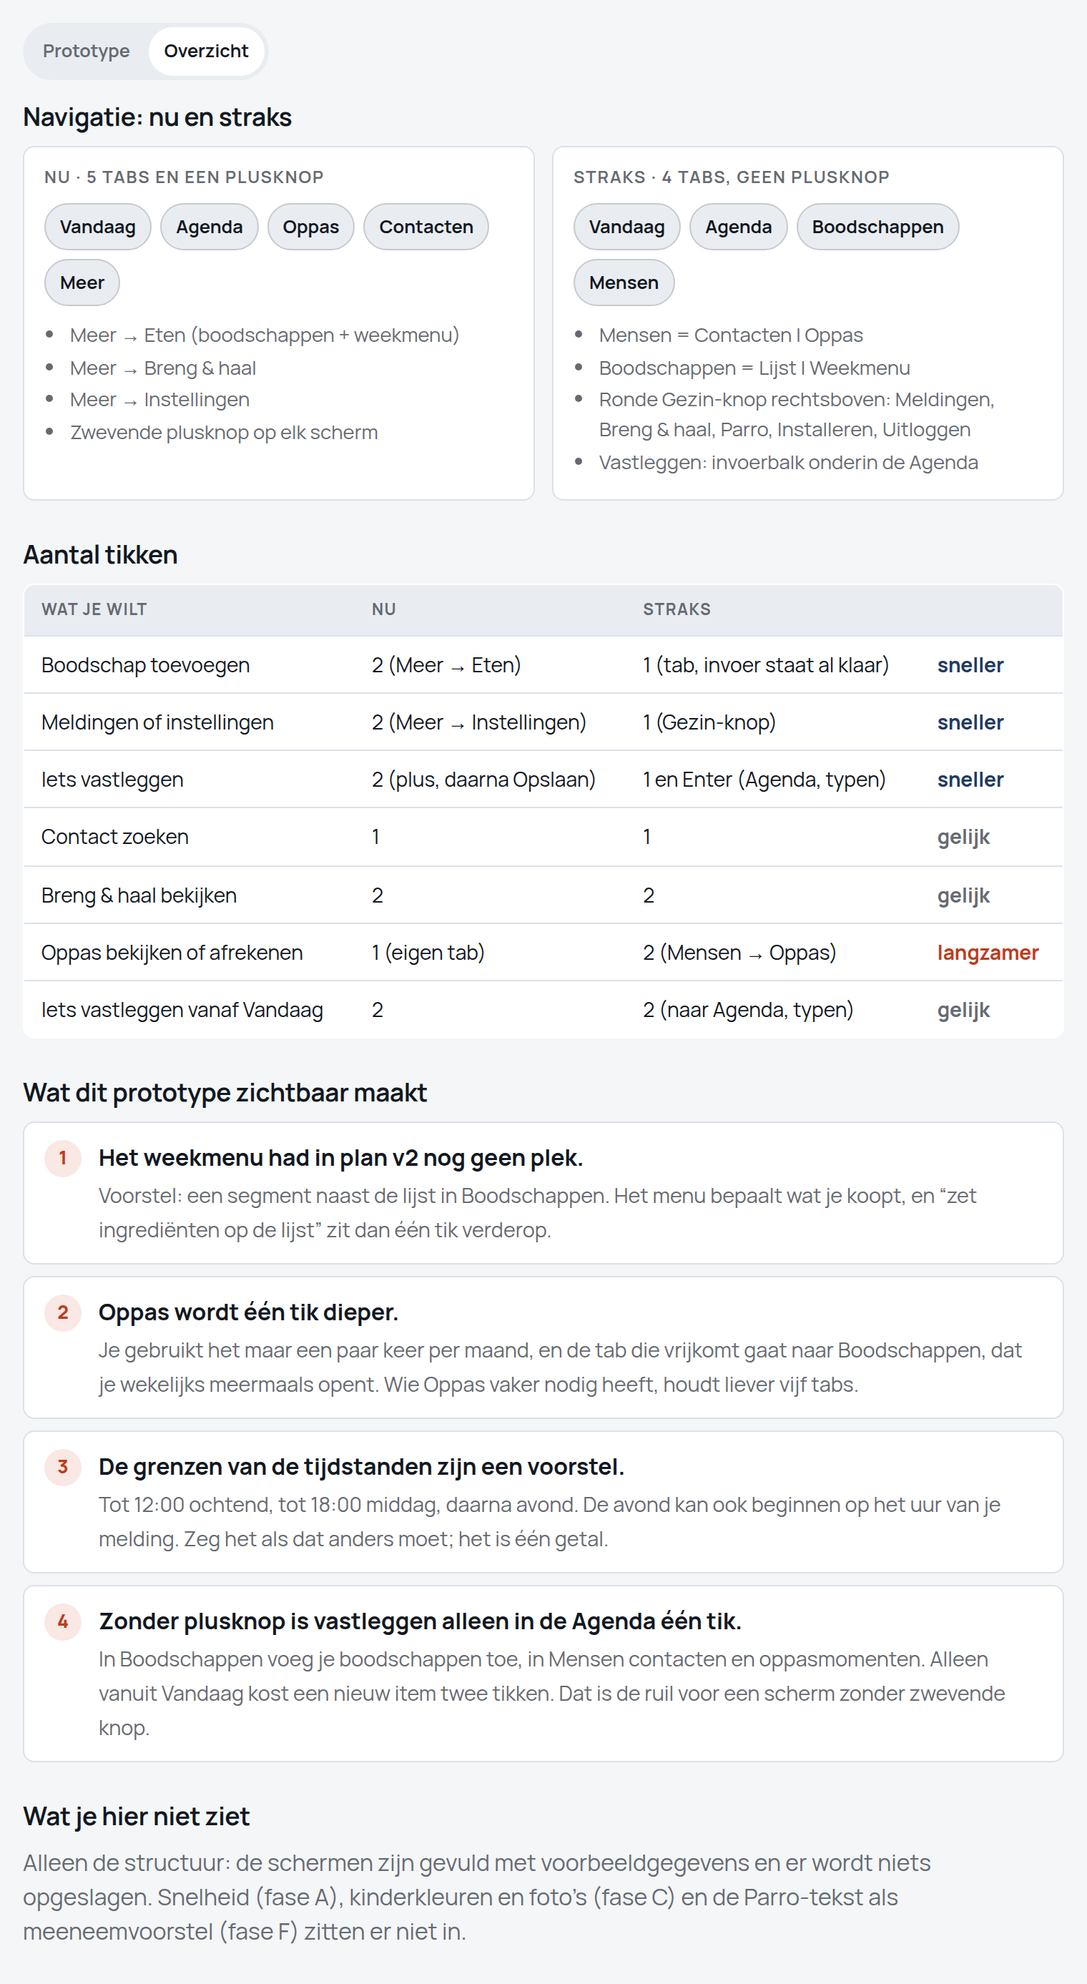
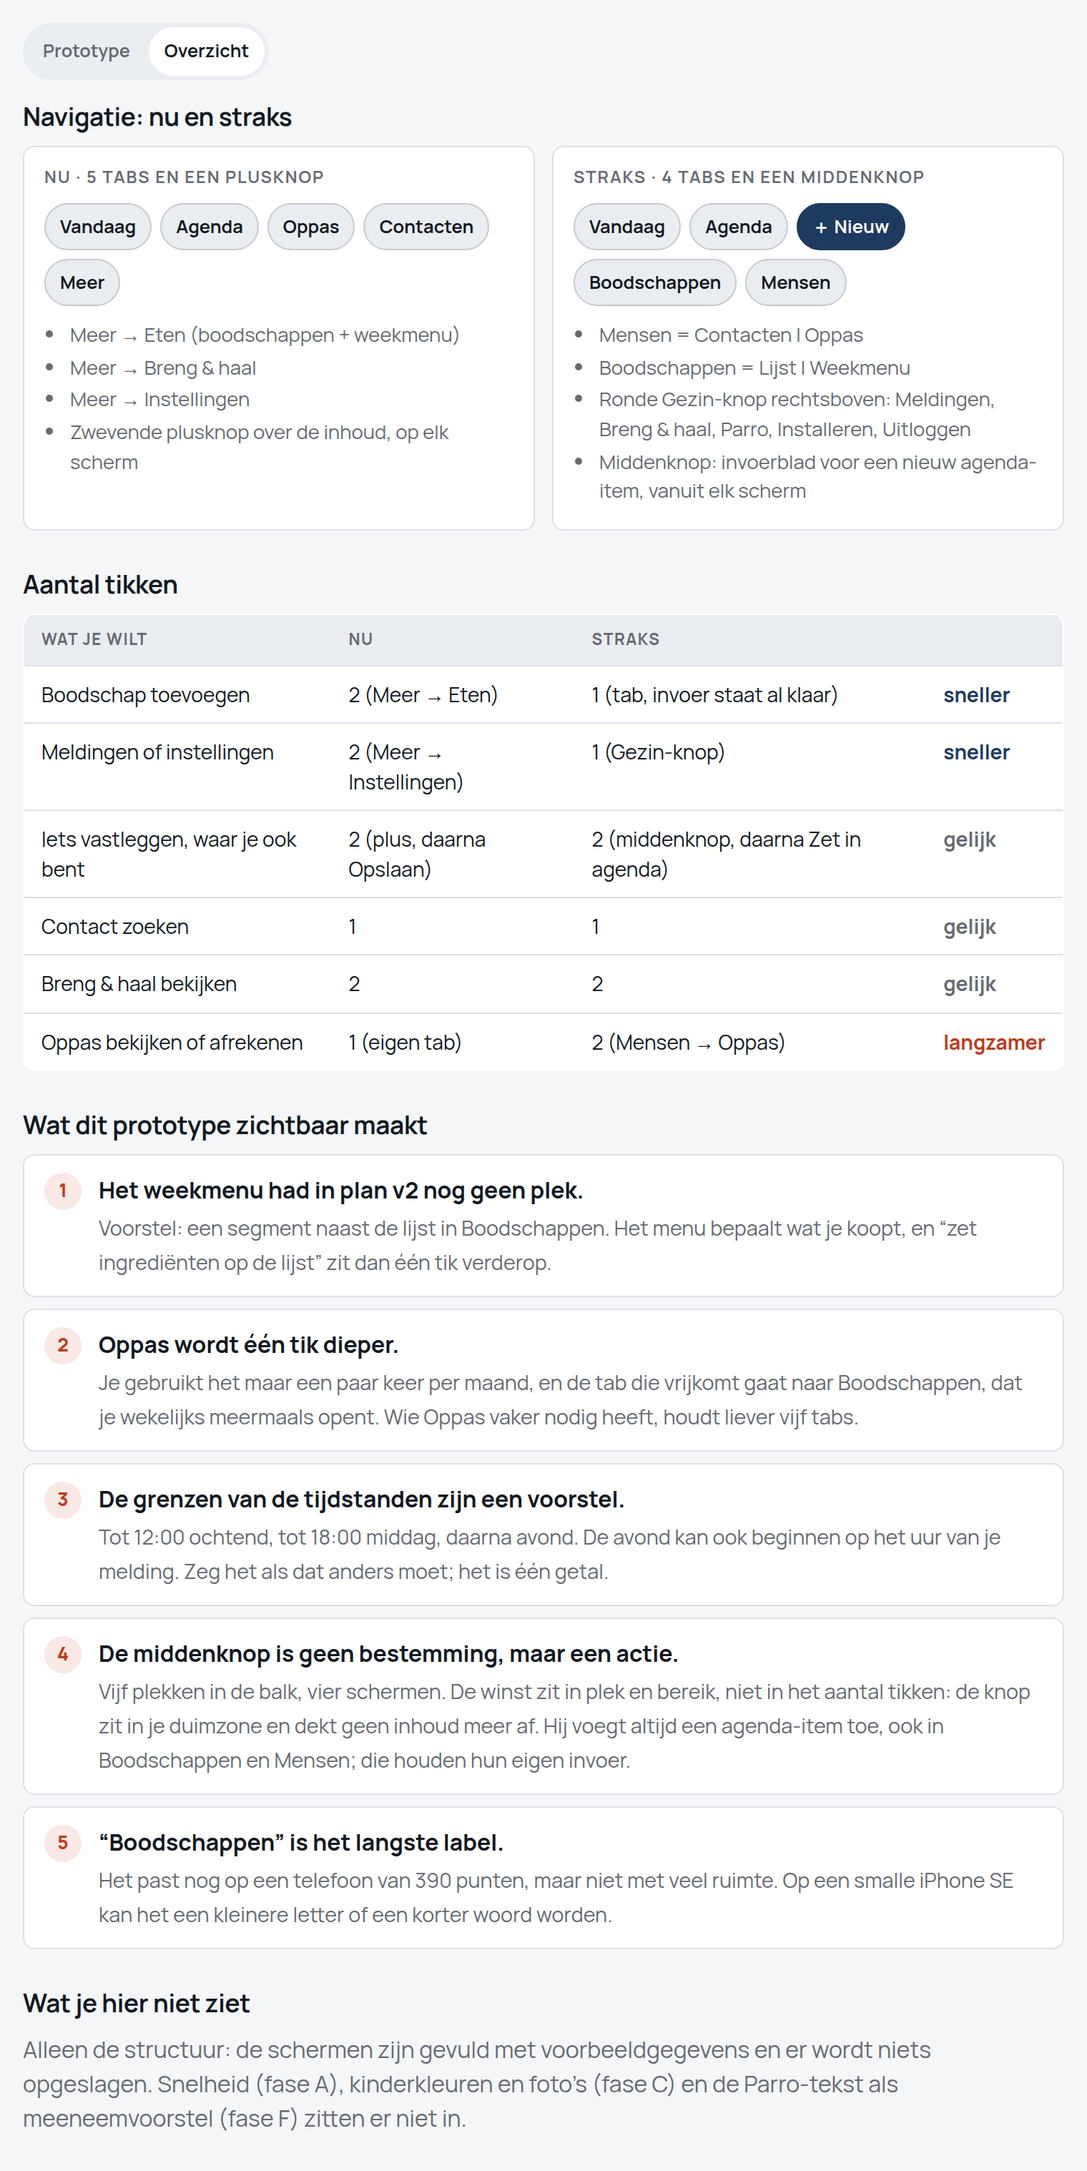
Werk fase B uit met vijf knoppen en een grotere Nieuw-knop in het midden
Claude-Session: https://claude.ai/code/session_01KYpuUaVwMjsUSBxD2yG82w

diff --git a/docs/mockups/fase-b.html b/docs/mockups/fase-b.html
@@ -1352,8 +1352,8 @@ body{margin:0;background:var(--bg);color:var(--text);font-family:var(--font-ui)}
 .mk__stage{display:flex;justify-content:center}
 .dev{position:relative;width:390px;max-width:100%;height:800px;max-height:calc(100dvh - 120px);min-height:560px;display:flex;flex-direction:column;background:var(--bg);border:1px solid var(--line-strong);border-radius:34px;overflow:hidden;box-shadow:var(--shadow-lg);transform:translateZ(0)}
 .dev__status{display:flex;justify-content:space-between;padding:12px 26px 4px;font-size:.78rem;font-weight:700;font-variant-numeric:tabular-nums;color:var(--text);flex-shrink:0}
-.dev__scroll{flex:1;overflow-y:auto;overscroll-behavior:contain;padding:6px 16px 20px}
-.dev .tabbar{position:static;flex-shrink:0;backdrop-filter:none;background:var(--surface);padding-bottom:10px}
+.dev__scroll{flex:1;overflow-y:auto;overscroll-behavior:contain;padding:6px 16px 36px}
+.dev .tabbar{position:relative;z-index:5;flex-shrink:0;backdrop-filter:none;background:var(--surface);padding-bottom:10px}
 .dev .tabbar__item{height:58px;font-size:.68rem}
 .mk--embedded .dev{height:100dvh;max-height:none;border-radius:0;border:0;box-shadow:none}
 @media (max-width:520px){
@@ -1422,6 +1422,22 @@ body{margin:0;background:var(--bg);color:var(--text);font-family:var(--font-ui)}
 .decision b{display:block;margin-bottom:2px}
 .decision span{color:var(--muted);font-size:.9rem}
 [hidden]{display:none!important}
+
+/* middenknop in de tabbalk */
+.dev .tabbar__item{font-size:.66rem;letter-spacing:0}
+.tabbar__add{display:flex;justify-content:center;align-items:flex-start;height:var(--nav-height);border:0;background:none;padding:0;cursor:pointer;color:var(--primary-ink)}
+.tabbar__disc{display:grid;place-items:center;width:56px;height:56px;margin-top:-22px;border-radius:50%;background:var(--primary);color:var(--primary-ink);border:5px solid var(--surface);box-shadow:0 5px 14px rgba(8,14,24,.28);transition:transform var(--dur) var(--ease)}
+.tabbar__disc svg{width:24px;height:24px}
+.tabbar__add:active .tabbar__disc{transform:scale(.93)}
+.tabbar__add:focus-visible .tabbar__disc{outline:3px solid var(--primary);outline-offset:3px}
+/* invoerblad */
+.sheetwrap{position:absolute;inset:0;z-index:50;display:flex;flex-direction:column;justify-content:flex-end}
+.sheet__scrim{position:absolute;inset:0;background:rgba(10,15,22,.45)}
+.sheet{position:relative;background:var(--surface);border-radius:22px 22px 0 0;padding:8px 16px 18px;box-shadow:var(--shadow-lg);animation:sheetup var(--dur) var(--ease)}
+.sheet__grip{width:38px;height:4px;border-radius:2px;background:var(--line-strong);margin:0 auto 10px}
+.sheet h2{font-size:1.1rem}
+@keyframes sheetup{from{transform:translateY(24px);opacity:0}to{transform:none;opacity:1}}
+@media (prefers-reduced-motion:reduce){.sheet{animation:none}.tabbar__disc{transition:none}}
 </style>
 <div class="mk">
   <div class="mk__bar">
@@ -1450,6 +1466,7 @@ body{margin:0;background:var(--bg);color:var(--text);font-family:var(--font-ui)}
       <div class="dev__scroll" id="scroll"></div>
       <div id="slot"></div>
       <nav class="tabbar" id="tabs" aria-label="Hoofdmenu"></nav>
+      <div id="sheet" class="sheetwrap" hidden></div>
       <div class="toast" id="toast" role="status" hidden></div>
     </div>
   </div>
@@ -1460,12 +1477,12 @@ body{margin:0;background:var(--bg);color:var(--text);font-family:var(--font-ui)}
       <div class="navbox">
         <h3>Nu · 5 tabs en een plusknop</h3>
         <div class="tabsrow"><span class="tabpill">Vandaag</span><span class="tabpill">Agenda</span><span class="tabpill">Oppas</span><span class="tabpill">Contacten</span><span class="tabpill">Meer</span></div>
-        <ul><li>Meer → Eten (boodschappen + weekmenu)</li><li>Meer → Breng &amp; haal</li><li>Meer → Instellingen</li><li>Zwevende plusknop op elk scherm</li></ul>
+        <ul><li>Meer → Eten (boodschappen + weekmenu)</li><li>Meer → Breng &amp; haal</li><li>Meer → Instellingen</li><li>Zwevende plusknop over de inhoud, op elk scherm</li></ul>
       </div>
       <div class="navbox">
-        <h3>Straks · 4 tabs, geen plusknop</h3>
-        <div class="tabsrow"><span class="tabpill">Vandaag</span><span class="tabpill">Agenda</span><span class="tabpill">Boodschappen</span><span class="tabpill">Mensen</span></div>
-        <ul><li>Mensen = Contacten | Oppas</li><li>Boodschappen = Lijst | Weekmenu</li><li>Ronde Gezin-knop rechtsboven: Meldingen, Breng &amp; haal, Parro, Installeren, Uitloggen</li><li>Vastleggen: invoerbalk onderin de Agenda</li></ul>
+        <h3>Straks · 4 tabs en een middenknop</h3>
+        <div class="tabsrow"><span class="tabpill">Vandaag</span><span class="tabpill">Agenda</span><span class="tabpill" style="background:var(--primary);color:var(--primary-ink);border-color:var(--primary)">＋ Nieuw</span><span class="tabpill">Boodschappen</span><span class="tabpill">Mensen</span></div>
+        <ul><li>Mensen = Contacten | Oppas</li><li>Boodschappen = Lijst | Weekmenu</li><li>Ronde Gezin-knop rechtsboven: Meldingen, Breng &amp; haal, Parro, Installeren, Uitloggen</li><li>Middenknop: invoerblad voor een nieuw agenda-item, vanuit elk scherm</li></ul>
       </div>
     </div>
 
@@ -1475,11 +1492,10 @@ body{margin:0;background:var(--bg);color:var(--text);font-family:var(--font-ui)}
       <tbody>
         <tr><td>Boodschap toevoegen</td><td>2 (Meer → Eten)</td><td>1 (tab, invoer staat al klaar)</td><td class="better">sneller</td></tr>
         <tr><td>Meldingen of instellingen</td><td>2 (Meer → Instellingen)</td><td>1 (Gezin-knop)</td><td class="better">sneller</td></tr>
-        <tr><td>Iets vastleggen</td><td>2 (plus, daarna Opslaan)</td><td>1 en Enter (Agenda, typen)</td><td class="better">sneller</td></tr>
+        <tr><td>Iets vastleggen, waar je ook bent</td><td>2 (plus, daarna Opslaan)</td><td>2 (middenknop, daarna Zet in agenda)</td><td class="same">gelijk</td></tr>
         <tr><td>Contact zoeken</td><td>1</td><td>1</td><td class="same">gelijk</td></tr>
         <tr><td>Breng &amp; haal bekijken</td><td>2</td><td>2</td><td class="same">gelijk</td></tr>
         <tr><td>Oppas bekijken of afrekenen</td><td>1 (eigen tab)</td><td>2 (Mensen → Oppas)</td><td class="worse">langzamer</td></tr>
-        <tr><td>Iets vastleggen vanaf Vandaag</td><td>2</td><td>2 (naar Agenda, typen)</td><td class="same">gelijk</td></tr>
       </tbody>
     </table>
 
@@ -1487,7 +1503,8 @@ body{margin:0;background:var(--bg);color:var(--text);font-family:var(--font-ui)}
     <div class="decision"><div class="n">1</div><div><b>Het weekmenu had in plan v2 nog geen plek.</b><span>Voorstel: een segment naast de lijst in Boodschappen. Het menu bepaalt wat je koopt, en “zet ingrediënten op de lijst” zit dan één tik verderop.</span></div></div>
     <div class="decision"><div class="n">2</div><div><b>Oppas wordt één tik dieper.</b><span>Je gebruikt het maar een paar keer per maand, en de tab die vrijkomt gaat naar Boodschappen, dat je wekelijks meermaals opent. Wie Oppas vaker nodig heeft, houdt liever vijf tabs.</span></div></div>
     <div class="decision"><div class="n">3</div><div><b>De grenzen van de tijdstanden zijn een voorstel.</b><span>Tot 12:00 ochtend, tot 18:00 middag, daarna avond. De avond kan ook beginnen op het uur van je melding. Zeg het als dat anders moet; het is één getal.</span></div></div>
-    <div class="decision"><div class="n">4</div><div><b>Zonder plusknop is vastleggen alleen in de Agenda één tik.</b><span>In Boodschappen voeg je boodschappen toe, in Mensen contacten en oppasmomenten. Alleen vanuit Vandaag kost een nieuw item twee tikken. Dat is de ruil voor een scherm zonder zwevende knop.</span></div></div>
+    <div class="decision"><div class="n">4</div><div><b>De middenknop is geen bestemming, maar een actie.</b><span>Vijf plekken in de balk, vier schermen. De winst zit in plek en bereik, niet in het aantal tikken: de knop zit in je duimzone en dekt geen inhoud meer af. Hij voegt altijd een agenda-item toe, ook in Boodschappen en Mensen; die houden hun eigen invoer.</span></div></div>
+    <div class="decision"><div class="n">5</div><div><b>“Boodschappen” is het langste label.</b><span>Het past nog op een telefoon van 390 punten, maar niet met veel ruimte. Op een smalle iPhone SE kan het een kleinere letter of een korter woord worden.</span></div></div>
 
     <h2>Wat je hier niet ziet</h2>
     <p>Alleen de structuur: de schermen zijn gevuld met voorbeeldgegevens en er wordt niets opgeslagen. Snelheid (fase A), kinderkleuren en foto’s (fase C) en de Parro-tekst als meeneemvoorstel (fase F) zitten er niet in.</p>
@@ -1558,7 +1575,7 @@ const S={
     {id:2,date:'2026-09-25',who:'Marloes',h:4,start:'18:30',end:'22:30',paid:true},
     {id:3,date:'2026-09-17',who:'Tim',h:3.5,start:'09:00',end:'12:30',paid:true},
   ],
-  cap:'',
+  sheet:{text:'',person:null},
 };
 const RATE=12;
 const evOn=dt=>S.events.filter(e=>e.date===dt).sort((a,b)=>(a.allDay?'00:00':a.time||'99').localeCompare(b.allDay?'00:00':b.time||'99'));
@@ -1687,22 +1704,20 @@ function gezin(){
 }
 
 /* ----------------------------------------------------------------- render */
-function bottomKey(){return S.gezin?'none':S.tab==='agenda'?'cap':S.tab==='boodschappen'&&S.boodschap==='lijst'?'shop':'none'}
+function bottomKey(){return S.gezin?'none':S.tab==='boodschappen'&&S.boodschap==='lijst'?'shop':'none'}
 function renderBottom(){
   const k=bottomKey();if(k===S._bk)return;S._bk=k;
   const el=document.getElementById('slot');
-  if(k==='cap'){
-    el.innerHTML=`<div class="capture"><p class="capture__hint" id="caphint">Typ gewoon: “matthijs vrijdag gymtas mee”</p><div id="capprev" class="capture__preview"></div><form class="capture__row" id="capform"><input class="input" id="cap" placeholder="Wat moet er gebeuren?" autocomplete="off" enterkeyhint="send"><button class="capture__sendbtn" id="capbtn" disabled aria-label="Zet in agenda">${I('plus',22)}</button></form></div>`;
-  } else if(k==='shop'){
+  if(k==='shop'){
     el.innerHTML=`<div class="shopbar"><div class="vaak" id="vaak"></div><form class="capture__row" id="shopform"><input class="input" id="shopin" placeholder="Wat moet er mee?" autocomplete="off" enterkeyhint="send" style="border-radius:999px;padding-left:16px"><button class="capture__sendbtn" aria-label="Zet op de lijst">${I('plus',22)}</button></form></div>`;
     renderVaak();
   } else el.innerHTML='';
 }
 function renderVaak(){const v=document.getElementById('vaak');if(v)v.innerHTML=S.vaak.map(t=>`<button class="pick" type="button" data-act="vaak" data-t="${t}">${I('plus',14)} ${t}</button>`).join('')}
 function tabs(){
-  const n=S.shop.filter(i=>!i.done).length;
-  const T=[['vandaag','Vandaag','vandaag'],['agenda','Agenda','kalender'],['boodschappen','Boodschappen','mandje'],['mensen','Mensen','contacten']];
-  return T.map(([k,l,ic])=>`<button class="tabbar__item" data-act="tab" data-k="${k}" aria-current="${!S.gezin&&S.tab===k}"><span class="tabbar__icon">${I(ic,22)}</span>${l}</button>`).join('');
+  const T=[['vandaag','Vandaag','vandaag'],['agenda','Agenda','kalender'],null,['boodschappen','Boodschappen','mandje'],['mensen','Mensen','contacten']];
+  return T.map(t=>t?`<button class="tabbar__item" data-act="tab" data-k="${t[0]}" aria-current="${!S.gezin&&S.tab===t[0]}"><span class="tabbar__icon">${I(t[2],22)}</span>${t[1]}</button>`
+    :`<button class="tabbar__add" data-act="new" aria-label="Nieuw agenda-item" aria-haspopup="dialog"><span class="tabbar__disc">${I('plus',26)}</span></button>`).join('');
 }
 const TIMES={ochtend:'07:45',middag:'14:00',avond:'21:30'};
 function render(){
@@ -1723,15 +1738,27 @@ function setView(v){
   document.querySelectorAll('[data-view]').forEach(b=>b.setAttribute('aria-pressed',b.dataset.view===v));
   document.getElementById('timebox').style.visibility=v==='proto'?'visible':'hidden';
 }
-function preview(){
-  const v=document.getElementById('cap').value;const el=document.getElementById('capprev'),btn=document.getElementById('capbtn');
-  btn.disabled=!v.trim();
-  document.getElementById('caphint').hidden=!!v.trim();
-  if(!v.trim()){el.innerHTML='';return null}
-  const r=window.QP(v,TODAY);
-  el.innerHTML=`<span class="chip">${I('kalender',13)} ${short(r.date)}${r.time?' · '+r.time:r.allDay?' · hele dag':''}</span><span class="chip chip--${r.person}">${PL[r.person]}</span><span class="chip">${CL[r.category]}</span>${r.bring.map(b=>`<span class="chip chip--warn">${I('rugzak',13)} ${esc(b)}</span>`).join('')}<strong style="flex-basis:100%;font-size:.86rem">${esc(r.title)}</strong>`;
+const EX=['matthijs vrijdag gymtas mee','tandarts lotte 14 oktober 10:30','oppas marloes zaterdag 19:00'];
+function parsed(){
+  const v=S.sheet.text;if(!v.trim())return null;
+  const r=window.QP(v,TODAY);if(S.sheet.person)r.person=S.sheet.person;return r;
+}
+function sheetPreview(){
+  const el=document.getElementById('sheetprev'),btn=document.getElementById('sheetgo');
+  const r=parsed();btn.disabled=!r;
+  if(!r){el.innerHTML=`<span class="muted tiny" style="flex-basis:100%">Probeer:</span>`+EX.map(t=>`<button type="button" class="pick" data-act="ex" data-t="${esc(t)}">${esc(t)}</button>`).join('');return null}
+  el.innerHTML=`<strong style="flex-basis:100%;font-size:1rem">${esc(r.title)}</strong><span class="chip">${I('kalender',13)} ${short(r.date)}${r.time?' · '+r.time:r.allDay?' · hele dag':''}</span><span class="chip chip--${r.person}">${PL[r.person]}</span><span class="chip">${CL[r.category]}</span>${r.bring.map(b=>`<span class="chip chip--warn">${I('rugzak',13)} ${esc(b)}</span>`).join('')}`;
   return r;
 }
+function openSheet(text,person){
+  S.sheet={text:text||'',person:person||null};
+  const sh=document.getElementById('sheet');
+  sh.innerHTML=`<div class="sheet__scrim" data-act="closesheet"></div><form class="sheet" id="sheetform" role="dialog" aria-label="Nieuw agenda-item"><div class="sheet__grip" aria-hidden="true"></div><div class="row row--between" style="margin-bottom:10px"><h2>Nieuw in de agenda</h2><button type="button" class="btn btn--ghost btn--sm" data-act="closesheet" aria-label="Sluit">${I('kruis',18)}</button></div><input class="input" id="sheetin" placeholder="Wat moet er gebeuren?" autocomplete="off" enterkeyhint="done" value="${esc(S.sheet.text)}" style="border-radius:999px;padding-left:16px"><div class="capture__preview" id="sheetprev" style="margin:12px 2px 6px;min-height:70px;align-content:flex-start;gap:6px"></div><div class="field__label" style="margin:6px 2px 6px;font-size:.78rem;font-weight:650;color:var(--muted)">Voor wie</div><div class="picks" id="sheetwho" role="group" style="margin-bottom:14px"></div><div class="row"><button type="button" class="btn" data-act="toast" data-m="Opent het volledige formulier">Alle opties</button><button class="btn btn--primary grow" id="sheetgo" disabled>Zet in agenda</button></div></form>`;
+  sh.hidden=false;renderWho();sheetPreview();
+  const i=document.getElementById('sheetin');try{i.focus()}catch(e){}
+}
+function renderWho(){document.getElementById('sheetwho').innerHTML=[['matthijs','Matthijs'],['amelie','Amélie'],['lotte','Lotte'],['gezin','Gezin']].map(([v,l])=>`<button type="button" class="pick pick--${v}" data-act="who" data-v="${v}" aria-pressed="${S.sheet.person===v}">${l}</button>`).join('')}
+function closeSheet(){document.getElementById('sheet').hidden=true}
 function addShop(t){t=t.trim();if(!t)return;S.shop.unshift({id:++uid,text:t.charAt(0).toUpperCase()+t.slice(1),done:false});S.vaak=S.vaak.filter(x=>x.toLowerCase()!==t.toLowerCase());render();renderVaak()}
 
 document.addEventListener('click',ev=>{
@@ -1751,6 +1778,10 @@ document.addEventListener('click',ev=>{
   else if(a==='clr'){S.shop=S.shop.filter(i=>!i.done);render()}
   else if(a==='notif'){S.notif=!S.notif;render()}
   else if(a==='vaak'){addShop(b.dataset.t)}
+  else if(a==='new'){openSheet()}
+  else if(a==='closesheet'){closeSheet()}
+  else if(a==='ex'){S.sheet.text=b.dataset.t;document.getElementById('sheetin').value=b.dataset.t;sheetPreview()}
+  else if(a==='who'){S.sheet.person=S.sheet.person===b.dataset.v?null:b.dataset.v;renderWho();sheetPreview()}
   else if(a==='toast'||a==='evt'){ev.preventDefault();toast(b.dataset.m||'Opent het item')}
 });
 document.addEventListener('change',ev=>{
@@ -1761,19 +1792,19 @@ document.addEventListener('change',ev=>{
 });
 document.addEventListener('input',ev=>{
   if(ev.target.id==='q'){S.q=ev.target.value;document.getElementById('clist').innerHTML=contactList()}
-  if(ev.target.id==='cap')preview();
+  if(ev.target.id==='sheetin'){S.sheet.text=ev.target.value;sheetPreview()}
 });
 document.addEventListener('submit',ev=>{
   ev.preventDefault();
-  if(ev.target.id==='capform'){
-    const r=preview();if(!r)return;
+  if(ev.target.id==='sheetform'){
+    const r=parsed();if(!r)return;
     S.events.push({id:++uid,date:r.date,time:r.time,allDay:r.allDay,title:r.title,person:r.person,cat:r.category,bring:r.bring.map(t=>({id:++uid,text:t,done:false}))});
-    S.sel=r.date;const wd=add(r.date,-wdi(r.date));S.week=wd;
-    document.getElementById('cap').value='';render();preview();toast('Gezet op '+short(r.date));
+    if(S.tab==='agenda'&&!S.gezin){S.sel=r.date;S.week=add(r.date,-wdi(r.date))}
+    closeSheet();render();toast('Gezet op '+short(r.date));
   } else if(ev.target.id==='shopform'){const i=document.getElementById('shopin');addShop(i.value);i.value=''}
 });
-window.__mock={zet(o){Object.assign(S,o);S._bk=null;render();setView(S.view)},setView,S,type(v){const i=document.getElementById('cap');i.value=v;preview()}};
-setView('proto');render();
+window.__mock={zet(o){Object.assign(S,o);S._bk=null;closeSheet();render();setView(S.view)},setView,S,openSheet,closeSheet};
+setView('proto');render();closeSheet();
 })();
 </script>
 </body></html>

diff --git a/docs/ontwerp-v2.md b/docs/ontwerp-v2.md
@@ -236,18 +236,26 @@ Het kleurcontrast en de toegankelijkheidsmeting blijven meedraaien.
 ## 8. Bevindingen uit het prototype van fase B
 
 Het aantikbare prototype staat in `docs/mockups/fase-b.html` (open het in een browser) met
-beelden in dezelfde map. Het bouwt op de echte stijl en de echte invoerparser. Het maakte
-vier dingen zichtbaar die in het plan hierboven ontbraken:
+beelden in dezelfde map. Het bouwt op de echte stijl en de echte invoerparser.
+
+**Gekozen structuur:** vijf knoppen in de balk. Vier bestemmingen (Vandaag, Agenda,
+Boodschappen, Mensen) en in het midden een grotere Nieuw-knop die vanuit elk scherm een
+invoerblad opent voor een nieuw agenda-item. Dat vervangt de zwevende plusknop en de
+invoerbalk onderin de Agenda. Oppas zit in Mensen (Contacten | Oppas).
+
+Wat het prototype zichtbaar maakte:
 
 1. **Het weekmenu had geen plek.** Voorstel: een segment naast de lijst in *Boodschappen*
    (Lijst | Weekmenu), met "zet ingrediënten op de lijst" één tik verderop.
-2. **Oppas wordt één tik dieper**, achter *Mensen* (Contacten | Oppas). Dat is bewust: het
-   gebruik is maandelijks, het alternatief is vijf tabs.
-3. **De tijdstanden van Vandaag zijn een voorstel**: tot 12:00 ochtend ("Vandaag mee" bovenaan),
-   tot 18:00 middag (alleen wat nog moet, morgen als één regel), daarna avond (morgen voorop).
-   Het afkappunt voor de avond kan ook het uur van de avondmelding zijn.
-4. **Zonder zwevende plusknop is vastleggen alleen in de Agenda één tik** (invoerbalk onderin).
-   In Boodschappen en Mensen staat de eigen invoer; vanuit Vandaag kost een nieuw item twee tikken.
+2. **Oppas wordt één tik dieper**, achter *Mensen*. Bewust: het gebruik is maandelijks.
+3. **De tijdstanden van Vandaag zijn een voorstel**: tot 12:00 ochtend ("Vandaag mee"
+   bovenaan), tot 18:00 middag (alleen wat nog moet, morgen als één regel), daarna avond
+   (morgen voorop). Het afkappunt voor de avond kan ook het uur van de avondmelding zijn.
+4. **De middenknop is een actie, geen bestemming.** Hij is niet sneller in tikken (2, net
+   als nu: knop, dan Zet in agenda), wel beter bereikbaar en hij dekt geen inhoud meer af.
+   Hij voegt altijd een agenda-item toe; Boodschappen en Mensen houden hun eigen invoer.
+5. **"Boodschappen" is het langste label** en past op 390 punten, maar krap. Op een
+   iPhone SE (375) is dat te controleren.
 
 Aantal tikken, nu → straks: boodschap toevoegen 2 → 1, instellingen 2 → 1, iets vastleggen
-2 → 1 en Enter, Oppas 1 → 2, contact zoeken en breng & haal gelijk.
+2 → 2, Oppas 1 → 2, contact zoeken en breng & haal gelijk.
